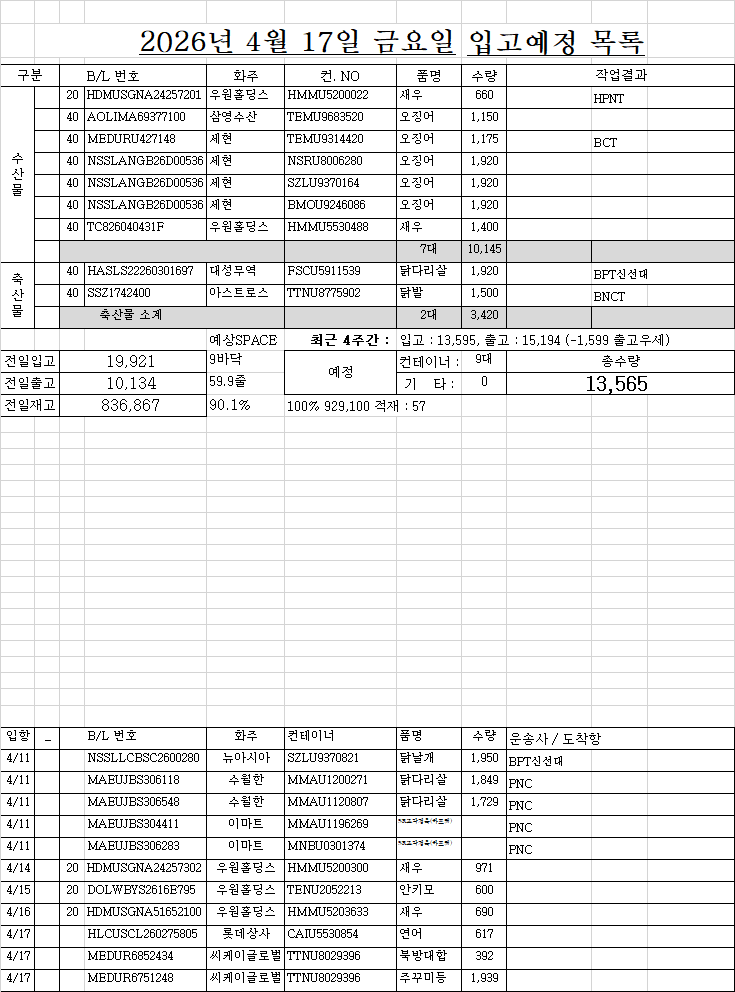
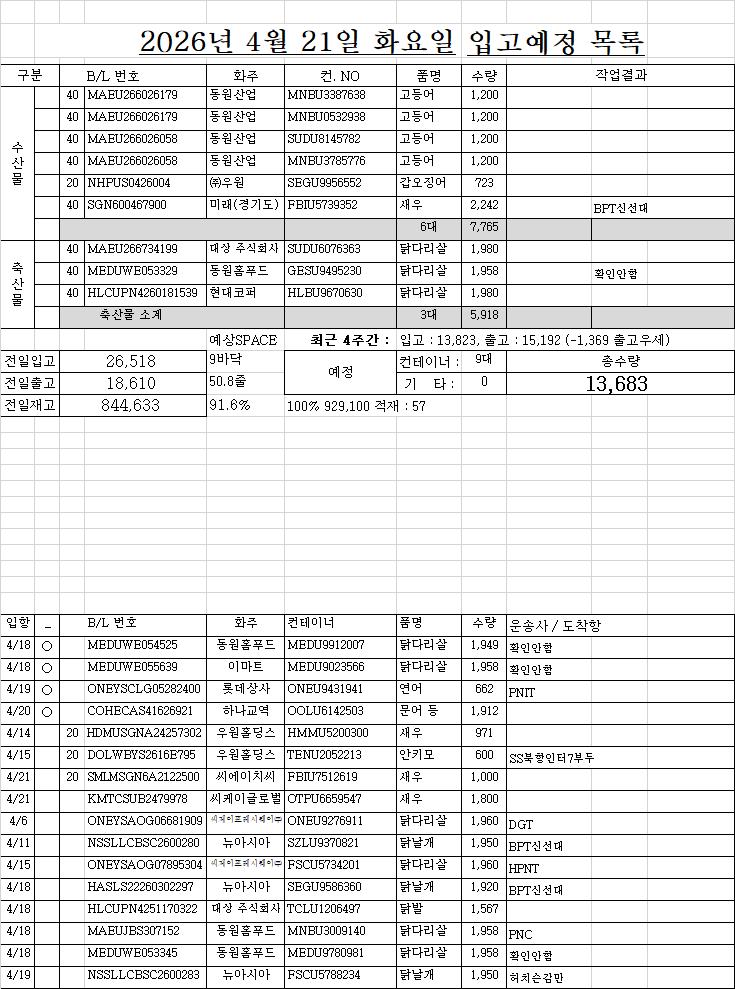
0420

Changed region(s): [[0.0, 0.546, 1.0, 1.0], [0.0, 0.0303, 1.0, 0.455], [0.0, 0.1517, 0.0299, 0.2123]]

diff --git a/list.html b/list.html
@@ -160,70 +160,73 @@
 </div>
 <!-- ★★★★★★ 따로 빼 놔야한다. 복붙하면 첫칸 비어도 되는데, 여기서는 첫칸비우면 당겨진다. -->
 <!-- ★ 엑셀범위를 브라우저 textarea에 붙여넣으면 첫셀 비어도 제대로 되는데... HTML에 붙여놓은 자료는 처음셀이 비어있으면 당겨짐 -->
-<div class="d-none" id="원본text_리스트1부터w요약열까지">작성	면허	B/LNO.	화주	컨테이너NO.	품명	수량	반입NO.	입항일	구분	도착일	도착시간	구분	운도VBA	04/16 목 16:24	화찰BL	화찰 선명	화물관리번호	화찰수량	화찰중량	화찰입항	리스트시트기준열	
-1	○	HDMUSGNA24257201	우원홀딩스	HMMU5200022	새우	660 		4/14	1			20	HPNT	(주)에스에스물류, CY : 에이치엠엠피에스에이신항만(주), 컨진행 : 보세운송 신고 수리, 선사 : 에이치엠엠(주)	HDMUSGNA24257201	HMM HANUL	26HDMUA217I-0030-	660 	4,620.00 	2026.04.14	04/16 목 16:24	
-1	○	AOLIMA69377100	삼영수산	TEMU9683520	오징어	1,150 		4/15	1							ONE SPLENDOUR	26ONEY0481I-4005-0001	1,150 	24,210.00 	2026.04.15	조회정보	
-1	○	MEDURU427148	세현	TEMU9314420	오징어	1,175 	BCT	4/15	1	4/16	09:37		BCT	천일정기화물자동차(주), CY : 부산컨테이너터미널(주), 컨진행 : 반출완료, 선사 : 엠에스씨코리아(주)	MEDURU427148	MSC UBERTY VIII	26MSCU2085I-0040-	1,175 	24,730.00 	2026.04.15	적재	57
-1		NSSLANGB26D00536	세현	NSRU8006280	오징어	1,920 		4/16	1					면허?, CY : 신선대감만터미널(주) 신선대CY, 컨진행 : 입항적재화물목록 운항정보 정정, 선사 : 남성해운주식회사, 포딩 : (주)스카이로드	NSSLANGB26D00536	STAR RANGER	26NSSLD057I-3090-0001	5,760 	74,060.00 	2026.04.16	4,617 	3줄
-1		NSSLANGB26D00536	세현	SZLU9370164	오징어	1,920 		4/16	1					면허?, CY : 신선대감만터미널(주) 신선대CY, 컨진행 : 입항적재화물목록 운항정보 정정, 선사 : 남성해운주식회사, 포딩 : (주)스카이로드	NSSLANGB26D00536	STAR RANGER	26NSSLD057I-3090-0001	5,760 	74,060.00 	2026.04.16	6,156 	4줄
-1		NSSLANGB26D00536	세현	BMOU9246086	오징어	1,920 		4/16	1					면허?, CY : 신선대감만터미널(주) 신선대CY, 컨진행 : 입항적재화물목록 운항정보 정정, 선사 : 남성해운주식회사, 포딩 : (주)스카이로드	NSSLANGB26D00536	STAR RANGER	26NSSLD057I-3090-0001	5,760 	74,060.00 	2026.04.16	7,695 	5줄
-1	○	TC826040431F	우원홀딩스	HMMU5530488	새우	1,400 		4/16	1					(주)에스에스물류, CY : 에이치엠엠피에스에이신항만(주), 컨진행 : 보세운송 신고 수리, 선사 : 에이치엠엠(주), 포딩 : 주식회사 엠앤씨엘	TC826040431F	HMM HERITAGE	26HDMUA221I-0180-0001	1,400 	15,680.00 	2026.04.16	9,234 	6줄
-1	○	HASLS22260301697	대성무역	FSCU5911539	닭다리살	1,920 		4/15	2				BPT신선대	면허?, CY : 신선대감만터미널(주) 신선대CY, 컨진행 : 하선신고 수리완료, 선사 : 장금상선(주)	HASLS22260301697	SAWASDEE INCHEON	26SNKO1362I-2093-	1,920 	24,000.00 	2026.04.15	구분	대수
-1	○	SSZ1742400	아스트로스	TTNU8775902	닭발	1,500 	BNCT	4/16	2	CY			BNCT		SSZ1742400	CMA CGM BALI	26CMAL0166I-9925-	1,500 	23,850.00 	2026.04.16	출고입고	4주간
-		NSSLLCBSC2600280	뉴아시아	SZLU9370821	닭날개	1,950 		4/11	2				BPT신선대	면허?, CY : 신선대감만터미널(주) 신선대CY, 컨진행 : 반입완료, 선사 : 범주해운(주)	NSSLLCBSC2600280	PANCON BRIDGE	26PCLUBK05I-3029-	1,950 	24,765.00 	2026.04.11	1일 7/5	9바닥줄
-		MAEUJBS306118	수월한	MMAU1200271	닭다리살	1,849 	PNC	4/11	2	CY			PNC			GRASMERE MAERSK					14,855 	9.7
-		MAEUJBS306548	수월한	MMAU1120807	닭다리살	1,729 	PNC	4/11	2	CY			PNC			GRASMERE MAERSK					13,595 	8.8
-		MAEUJBS304411	이마트	MMAU1196269	SR조각정육(하프컷)			4/11	2	CY			PNC			GRASMERE MAERSK					내국제외	
-		MAEUJBS306283	이마트	MNBU0301374	SR조각정육(하프컷)			4/11	2	CY			PNC			GRASMERE MAERSK					구분	대수
-		HDMUSGNA24257302	우원홀딩스	HMMU5200300	새우	971 		4/14	1			20									수산	27 
-		DOLWBYS2616E795	우원홀딩스	TENU2052213	안키모	600 		4/15	1			20									축산	38 
-		HDMUSGNA51652100	우원홀딩스	HMMU5203633	새우	690 		4/16	1			20		면허?, CY : 에이치엠엠피에스에이신항만(주), 컨진행 : 하선신고 수리완료, 선사 : 에이치엠엠(주)	HDMUSGNA51652100	HMM HERITAGE	26HDMUA221I-0156-	690 	4,840.00 	2026.04.16	합계	65 
-		HLCUSCL260275805	롯데상사	CAIU5530854	연어	617 		4/17	1													
-		MEDUR6852434	씨케이글로벌	TTNU8029396	북방대합	392 		4/17	1					면허?, CY : 부산신항국제터미널(주), 컨진행 : 하선신고 수리완료, 선사 : 엠에스씨코리아(주)	MEDUR6852434	MSC ALYSSA	26MSCU4160I-0315-	392 	1,817.50 	2026.04.17	화주	대수
-		MEDUR6751248	씨케이글로벌	TTNU8029396	주꾸미등	1,939 		4/17	1					면허?, CY : 부산신항국제터미널(주), 컨진행 : 하선신고 수리완료, 선사 : 엠에스씨코리아(주)	MEDUR6751248	MSC ALYSSA	26MSCU4160I-0314-	1,939 	22,549.60 	2026.04.17	수월한	13
-		MAEUJBS307152	동원홈푸드	MNBU3009140	닭다리살	1,958 		4/18	2				PNC			MAERSK CAP JERVIS					삼영수산	8
-		HASLS22260302297	동일냉장	SEGU9586360	닭날개	1,920 		4/18	2												씨케이글로벌	6
-		LMM0575863	삼영수산	CGMU9319645	오징어	1,100 	BNCT	4/18	1	CY			BNCT			CMA CGM HELIUM(M2XE)					우원홀딩스	5
-		LMM0575863	삼영수산	TEMU9350746	오징어	1,100 	BNCT	4/18	1	CY			BNCT			CMA CGM HELIUM(M2XE)					이마트	5
-		COSU6444919190	씨케이글로벌	OERU4023662	연어	844 		4/18	1				BNCT			CMA CGM HELIUM(M2XE)					대성무역	5
-		NSSLLCBSC2600283	뉴아시아	FSCU5788234	닭날개	1,950 		4/19	2				허치슨감만			SKY CHALLENGE					동원홈푸드	5
-		ONEYSCLG05282400	롯데상사	ONEU9431941	연어	662 		4/19	1												세현	4
-		SGN600467900	미래(경기도)	FBIU5739352	새우	2,242 		4/19	1												아스트로스	3
-		SNG0499365	(유)SM무역	CGMU5228953	오징어	1,200 		4/21	1				BNCT			APL CHARLESTON(ACSAE)					뉴아시아	2
-		LMM0576989	삼영수산	SZLU5078410	오징어	1,100 		4/21	1				BNCT			APL CHARLESTON(ACSAE)					롯데상사	2
-		LMM0576989	삼영수산	SZLU5081918	오징어	1,100 		4/21	1				BNCT			APL CHARLESTON(ACSAE)					씨제이프레시웨이㈜	2
-		LMM0578990	삼영수산	TEMU9420669	오징어	1,100 		4/21	1				BNCT			APL CHARLESTON(ACSAE)					미래(경기도)	1
-		LMM0578990	삼영수산	CGMU9399722	오징어	1,100 		4/21	1				BNCT			APL CHARLESTON(ACSAE)					(유)SM무역	1
-		ACD878813	씨케이글로벌	CGMU5828731	홍합	2,063 		4/22	1				DGT			SITC YUNCHENG(KCM)					참트레이딩	1
-		MEDUKO026547	수월한	FSCU5682052	닭다리살	1,917 		4/25	2				DGT			ZEPHYR LUMOS(MS2W)					대상	1
-		MAEUJBS308071	수월한	MNBU4229278	닭다리살	1,903 		4/25	2				PNC			REN JIAN 15					동일냉장	1
-		MEDUR3100944	이마트	SZLU9307140	SR조각정육(하프컷)			4/25	2				DGT			ZEPHYR LUMOS(MS2W)						
-		MEDUR3101108	이마트	MSGU9029710	삼겹살			4/25	2				확인안함			ONE STRENGTH 						
-		HDMUSAOA57737801	대성무역	HDMU5575951	닭다리살	1,960 		4/27	2				HPNT			HYUNDAI TOKYO						
-		HDMUSAOA57737815	대성무역	HMMU5458172	닭다리살	1,960 		4/27	2				HPNT			HYUNDAI TOKYO						
-		HDMUSAOA57737816	대성무역	HMMU5461849	닭장각	1,568 		4/27	2				HPNT			HYUNDAI TOKYO						
-		HDMUSAOA57737812	수월한	HDMU5640194	닭다리살	1,960 		4/27	2													
-		HDMUSAOA93235100	수월한	BMOU9797833	닭다리살	1,917 		4/27	2													
+<div class="d-none" id="원본text_리스트1부터w요약열까지">작성	면허	B/LNO.	화주	컨테이너NO.	품명	수량	반입NO.	입항일	구분	도착일	도착시간	구분	운도VBA	04/20 월 16:52	화찰BL	화찰 선명	화물관리번호	화찰수량	화찰중량	화찰입항	리스트시트기준열	
+1	○	MAEU266026179	동원산업	MNBU3387638	고등어	1,200 		4/18	1					신세기기업(주), CY : 부산신항만(주)자유무역지역, 컨진행 : 반입완료, 선사 : 한국머스크(주)	MAEU266026179	MAERSK STEPNICA	26MAEU0234I-1046-	2,400 	49,980.00 	2026.04.18	04/20 월 16:52	
+1	○	MAEU266026179	동원산업	MNBU0532938	고등어	1,200 		4/18	1					신세기기업(주), CY : 부산신항만(주)자유무역지역, 컨진행 : 반입완료, 선사 : 한국머스크(주)	MAEU266026179	MAERSK STEPNICA	26MAEU0234I-1046-	2,400 	49,980.00 	2026.04.18	조회정보	
+1	○	MAEU266026058	동원산업	SUDU8145782	고등어	1,200 		4/18	1					신세기기업(주), CY : 부산신항만(주)자유무역지역, 컨진행 : 반입완료, 선사 : 한국머스크(주)	MAEU266026058	MAERSK STEPNICA	26MAEU0234I-1045-	2,400 	49,980.00 	2026.04.18	적재	57
+1	○	MAEU266026058	동원산업	MNBU3785776	고등어	1,200 		4/18	1					신세기기업(주), CY : 부산신항만(주)자유무역지역, 컨진행 : 반입완료, 선사 : 한국머스크(주)	MAEU266026058	MAERSK STEPNICA	26MAEU0234I-1045-	2,400 	49,980.00 	2026.04.18	4,617 	3줄
+1	○	NHPUS0426004	㈜우원	SEGU9956552	갑오징어	723 		4/19	1			20		(주)이지트랜스, CY : 신선대감만터미널(주) 감만CY, 컨진행 : 반입완료, 선사 : 만해항운 한국(주), 포딩 : 주식회사 글로벌해현	NHPUS0426004	WAN HAI 308	26WHLUVS11I-1131-0001	723 	5,105.40 	2026.04.19	6,156 	4줄
+1	○	SGN600467900	미래(경기도)	FBIU5739352	새우	2,242 		4/20	1				BPT신선대	(주)에스에스물류, CY : 신선대감만터미널(주) 신선대CY, 컨진행 : 입항적재화물목록 운항정보 정정, 선사 : 피아이엘코리아(주)	SGN600467900	KOTA GAYA	26PILK0023I-0024-	2,242 	14,557.80 	2026.04.20	7,695 	5줄
+1	○	MAEU266734199	대상 주식회사	SUDU6076363	닭다리살	1,980 		4/18	2					(주)골든로지텍, CY : 부산신항만(주)자유무역지역, 컨진행 : 반입완료, 선사 : 한국머스크(주)	MAEU266734199	MAERSK CAP JERVIS	26MAEU0235I-1089-	1,980 	24,924.24 	2026.04.18	9,234 	6줄
+1	○	MEDUWE053329	동원홈푸드	GESU9495230	닭다리살	1,958 		4/18	2	4/20	11:58		확인안함	천일정기화물자동차(주), CY : 부산신항만(주)자유무역지역, 컨진행 : 반출완료, 선사 : 엠에스씨코리아(주)	MEDUWE053329	MSC IVANA	26MSCU6113I-0220-	1,958 	24,486.70 	2026.04.18	구분	대수
+1	○	HLCUPN4260181539	현대코퍼	HLBU9670630	닭다리살	1,980 		4/18	2	4/20	15:42			(주)골든로지텍, CY : 부산신항만(주)자유무역지역, 컨진행 : 반출완료, 선사 : 하파그로이드코리아(주)	HLCUPN4260181539	NHAVA SHEVA EXPRESS	26HLCU9404I-7644-	1,980 	24,800.00 	2026.04.18	출고입고	4주간
+2	○	MEDUWE054525	동원홈푸드	MEDU9912007	닭다리살	1,949 		4/18	2	4/20	15:33		확인안함	천일정기화물자동차(주), CY : 부산신항만(주)자유무역지역, 컨진행 : 반출완료, 선사 : 엠에스씨코리아(주)	MEDUWE054525	MSC IVANA	26MSCU6113I-0219-	1,949 	24,374.18 	2026.04.18	1일 7/5	9바닥줄
+2	○	MEDUWE055639	이마트	MEDU9023566	닭다리살	1,958 		4/18	2				확인안함	(주)에스에스물류, CY : 부산신항만(주)자유무역지역, 컨진행 : 보세운송 신고 수리, 선사 : 엠에스씨코리아(주)	MEDUWE055639	MSC IVANA	26MSCU6113I-0232-	1,958 	24,450.75 	2026.04.18	15,192 	9.9
+2	○	ONEYSCLG05282400	롯데상사	ONEU9431941	연어	662 		4/19	1				PNIT	(주)에스에스물류, CY : 부산신항국제터미널(주), 컨진행 : 보세운송 신고 수리, 선사 : 하파그로이드코리아(주)	ONEYSCLG05282400	LIMA EXPRESS	26HLCU9405I-5007-	662 	22,963.98 	2026.04.19	13,823 	9
+2	○	COHECAS41626921	하나교역	OOLU6142503	문어 등	1,912 		4/20	1					(주)에스에스물류, CY : 신선대감만터미널(주) 신선대CY, 컨진행 : 보세운송 신고 수리, 선사 : 코스코쉬핑한국(주), 포딩 : 주식회사 글로벌해현	COHECAS41626921	COSCO FOS	26COHEF416I-8801-0001	1,912 	20,900.00 	2026.04.20	내국제외	
+3		HDMUSGNA24257302	우원홀딩스	HMMU5200300	새우	971 		4/14	1			20									구분	대수
+3		DOLWBYS2616E795	우원홀딩스	TENU2052213	안키모	600 		4/15	1			20	SS북항인터7부두								수산	23 
+3		SMLMSGN6A2122500	씨에이치씨	FBIU7512619	새우	1,000 		4/21	1			20		면허?, CY : 신감만 한국허치슨(주) 컨테이너 보세창고, 컨진행 : 입항적재화물목록 심사완료, 선사 : 남성해운주식회사	SMLMSGN6A2122500	STARSHIP PEGASUS	26NSSLD077I-0003-	1,000 	7,200.00 	2026.04.21	축산	45 
+3		KMTCSUB2479978	씨케이글로벌	OTPU6659547	새우	1,800 		4/21	1					면허?, CY : 신감만 한국허치슨(주) 컨테이너 보세창고, 컨진행 : 입항적재화물목록 심사완료, 선사 : 고려해운(주)	KMTCSUB2479978	KMTC SHIMIZU	26KMTC1331I-0175-	1,800 	21,600.00 	2026.04.21	합계	68 
+		ONEYSAOG06681909	씨제이프레시웨이㈜	ONEU9276911	닭다리살	1,960 		4/6	2				DGT	면허?, CY : 동원글로벌터미널부산(주), 컨진행 : 반입완료, 선사 : 에이치엠엠(주)	ONEYSAOG06681909	HMM PRIVILEGE	26HDMUA192I-5137-	1,960 	24,500.00 	2026.04.06		
+		NSSLLCBSC2600280	뉴아시아	SZLU9370821	닭날개	1,950 		4/11	2				BPT신선대	면허?, CY : 신선대감만터미널(주) 신선대CY, 컨진행 : 반입완료, 선사 : 범주해운(주)	NSSLLCBSC2600280	PANCON BRIDGE	26PCLUBK05I-3029-	1,950 	24,765.00 	2026.04.11	화주	대수
+		ONEYSAOG07895304	씨제이프레시웨이㈜	FSCU5734201	닭다리살	1,960 		4/15	2				HPNT	면허?, CY : 에이치엠엠피에스에이신항만(주), 컨진행 : 반입완료, 선사 : 에이치엠엠(주)	ONEYSAOG07895304	HMM TOPAZ	26HDMUA241I-5028-	1,960 	24,500.00 	2026.04.15	수월한	17
+		HASLS22260302297	뉴아시아	SEGU9586360	닭날개	1,920 		4/18	2				BPT신선대	면허?, CY : 신선대감만터미널(주) 신선대CY, 컨진행 : 반입완료, 선사 : 흥아라인 주식회사	HASLS22260302297	HEUNG-A HOCHIMINH	26HASL0553I-2064-	1,920 	24,000.00 	2026.04.18	이마트	5
+		HLCUPN4251170322	대상 주식회사	TCLU1206497	닭발	1,567 		4/18	2												삼영수산	5
+		MAEUJBS307152	동원홈푸드	MNBU3009140	닭다리살	1,958 		4/18	2				PNC			MAERSK CAP JERVIS					동원홈푸드	5
+		MEDUWE053345	동원홈푸드	MEDU9780981	닭다리살	1,958 		4/18	2				확인안함	면허?, CY : 부산신항만(주)자유무역지역, 컨진행 : 반입완료, 선사 : 엠에스씨코리아(주)	MEDUWE053345	MSC IVANA	26MSCU6113I-0224-	1,958 	24,486.70 	2026.04.18	씨케이글로벌	4
+		NSSLLCBSC2600283	뉴아시아	FSCU5788234	닭날개	1,950 		4/19	2				허치슨감만	면허?, CY : 신감만 한국허치슨(주) 컨테이너 보세창고, 컨진행 : 반입완료, 선사 : 천경해운(주)	NSSLLCBSC2600283	SKY CHALLENGE	26CKCO0425I-3004-	1,950 	24,765.00 	2026.04.19	동원산업	4
+		HLCUPN4260178090	대상 주식회사	HLXU8771686	닭발	1,567 		4/20	2					면허?, CY : 부산신항만(주)자유무역지역, 컨진행 : 반입완료, 선사 : 한국머스크(주)	HLCUPN4260178090	MAERSK SARNIA	26MAEU0237I-7654-	1,567 	24,304.17 	2026.04.20	대상 주식회사	4
+		HLCUPN4260178089	대상 주식회사	HLBU9393500	닭발	1,567 		4/20	2					면허?, CY : 부산신항만(주)자유무역지역, 컨진행 : 반입완료, 선사 : 한국머스크(주)	HLCUPN4260178089	MAERSK SARNIA	26MAEU0237I-7653-	1,567 	24,304.17 	2026.04.20	대성무역	4
+		COHECAS41626850	하나교역	APRU5062697	피바지락	2,070 		4/20	1												뉴아시아	3
+		SNG0499365	(유)SM무역	CGMU5228953	오징어	1,200 		4/22	1				BNCT			APL CHARLESTON(ACSAE)					씨제이프레시웨이㈜	3
+		LMM0576989	삼영수산	SZLU5078410	오징어	1,100 		4/22	1				BNCT			APL CHARLESTON(ACSAE)					하나교역	2
+		LMM0576989	삼영수산	SZLU5081918	오징어	1,100 		4/22	1				BNCT			APL CHARLESTON(ACSAE)					우원홀딩스	2
+		LMM0578990	삼영수산	TEMU9420669	오징어	1,100 		4/22	1				BNCT			APL CHARLESTON(ACSAE)					씨에이치씨	2
+		LMM0578990	삼영수산	CGMU9399722	오징어	1,100 		4/22	1				BNCT			APL CHARLESTON(ACSAE)					아스트로스	2
+		ACD878813	씨케이글로벌	CGMU5828731	홍합	2,063 		4/24	1				DGT			SITC YUNCHENG(KCM)					(유)SM무역	1
+		MAEUJBS308071	수월한	MNBU4229278	닭다리살	1,903 		4/25	2				PNC			REN JIAN 15					㈜우원	1
+		MEDUR3101108	이마트	MSGU9029710	삼겹살			4/25	2				확인안함			ONE STRENGTH 					롯데상사	1
+		HDMUSAOA57737801	대성무역	HDMU5575951	닭다리살	1,960 		4/27	2				HPNT			HYUNDAI TOKYO					미래(경기도)	1
+		HDMUSAOA57737815	대성무역	HMMU5458172	닭다리살	1,960 		4/27	2				HPNT			HYUNDAI TOKYO					참트레이딩	1
+		HDMUSAOA57737816	대성무역	HMMU5461849	닭장각	1,568 		4/27	2				HPNT			HYUNDAI TOKYO					현대코퍼	1
+		HDMUSAOA57737812	수월한	HDMU5640194	닭다리살	1,960 		4/27	2				HPNT									
+		HDMUSAOA93235100	수월한	BMOU9797833	닭다리살	1,917 		4/27	2				HPNT									
 		HLCUPN4260159520	참트레이딩	TEMU9059746	닭발	1,522 		4/27	2				PNC			MAERSK SANTANA						
 		MEDUHI744218	수월한	TTNU8485307	닭다리살	1,958 		4/28	2				확인안함			SEASPAN BELIEF						
 		LMM0579166	삼영수산	TTNU8014312	오징어	1,100 		4/30	1				확인안함			CMA CGM VELA 						
-		MEDUWE052263	동원홈푸드	SZLU9346260	닭다리살	1,938 		5/2	2				확인안함			MSC ANTIGUA						
+		MAEUJBS306118	수월한	MMAU1200271	닭다리살	1,849 	PNC	5/2	2	CY			PNC			GRASMERE MAERSK						
+		MAEUJBS306548	수월한	MMAU1120807	닭다리살	1,729 	PNC	5/2	2	CY			PNC			GRASMERE MAERSK						
+		MAEUJBS304411	이마트	MMAU1196269	SR조각정육(하프컷)			5/2	2	CY			PNC			GRASMERE MAERSK						
+		MAEUJBS306283	이마트	MNBU0301374	SR조각정육(하프컷)			5/2	2	CY			PNC			GRASMERE MAERSK						
 		MEDUKO028741	대성무역	MSCU7324266	닭장각	1,568 		5/3	2				PNC			MSC DOMITILLE						
+		MEDUWE052263	동원홈푸드	SZLU9346260	닭다리살	1,938 		5/7	2				확인안함			MSC ANTIGUA						
 		MEDUR3138142	수월한	MEDU9095680	닭다리살	1,942 		5/7	2				확인안함			ANTHEA Y						
 		MEDUHI738384	아스트로스	MEDU9087724	닭다리살	1,875 		5/8	2				확인안함			MSC PINA						
-		MEDUKO013727	대상	BMOU9011081	닭다리살	1,941 		5/10	2				확인안함			CAPE ARTEMISIO						
+		MEDUKO026547	수월한	FSCU5682052	닭다리살	1,917 		5/9	2				DGT			ZEPHYR LUMOS(MS2W)						
+		MEDUR3100944	이마트	SZLU9307140	SR조각정육(하프컷)			5/9	2				DGT			ZEPHYR LUMOS(MS2W)						
 		MEDUR3113012	수월한	FSCU5782597	닭다리살	1,941 		5/10	2				확인안함			CAPE ARTEMISIO						
 		MEDUR3128275	수월한	MEDU9346424	닭다리살	1,939 		5/10	2				확인안함			CAPE ARTEMISIO						
-		ONEYSAOG14010801	수월한	CXRU1156077	닭다리살	1,917 		5/19	2													
+		ONEYSAOG14010801	수월한	CXRU1156077	닭다리살	1,917 		5/23	2				확인안함									
 		COSU6453457070	아스트로스	SZLU9596640	닭다리살	1,960 		5/23	2				확인안함			COSCO FAITH						
 		MEDUWE071701	수월한	HJMU6102738	닭발	1,566 			2							APE ARTEMISIO						
-		MEDUWE053329	동원홈푸드	GESU9495230	닭다리살	1,958 		미정	2				확인안함			SANTA CATARINA EXPRESS						
-		MEDUWE053345	동원홈푸드	MEDU9780981	닭다리살	1,958 		미정	2				확인안함			SANTA CATARINA EXPRESS						
-		MEDUWE054525	동원홈푸드	MEDU9912007	닭다리살	1,949 		미정	2				확인안함			SANTA CATARINA EXPRESS						
-		MEDUWE055639	이마트	MEDU9023566	닭다리살	1,958 		미정	2				확인안함			SANTA CATARINA EXPRESS						
 		MEDUFX960938	수월한	MEDU9109741	닭다리살	1,917 	???		2				천일정기화물PNIT			MSC BREMERHAVEN V						
-		ONEYSAOG07895304	씨제이프레시웨이㈜	FSCU5734201	닭다리살	1,960 			2													
-		ONEYSAOG06681909	씨제이프레시웨이㈜	ONEU9276911	닭다리살	1,960 			2													
+		MAEUJBS309033	수월한	MNBU3291048	닭다리살	1,953 			2													
+		MAEUJBS3054996123784	수월한	SUDU6123784	닭다리살	1,889 			2													
+		HDMUSAOA01220400	수월한	HMMU5490657	닭다리살	1,958 			2													
+		MAEUJBS309194	수월한	MNBU3736792	닭다리살	1,788 			2													
+		SITRDAPU074374	씨에이치씨	AAMU9000930	새우	896 			1			20										
+		HDMUSAOA57737813	씨제이프레시웨이㈜	HDMU5643336	닭다리살	1,960 			2													
 		SITRRIPU040355	씨케이글로벌	CAIU5186862	새우	1,550 	???		1													
 		OOCL2317300180	씨케이글로벌	FSCU5984155		1,382 	???		1							CMA CGM PRIDE						
 </div>
